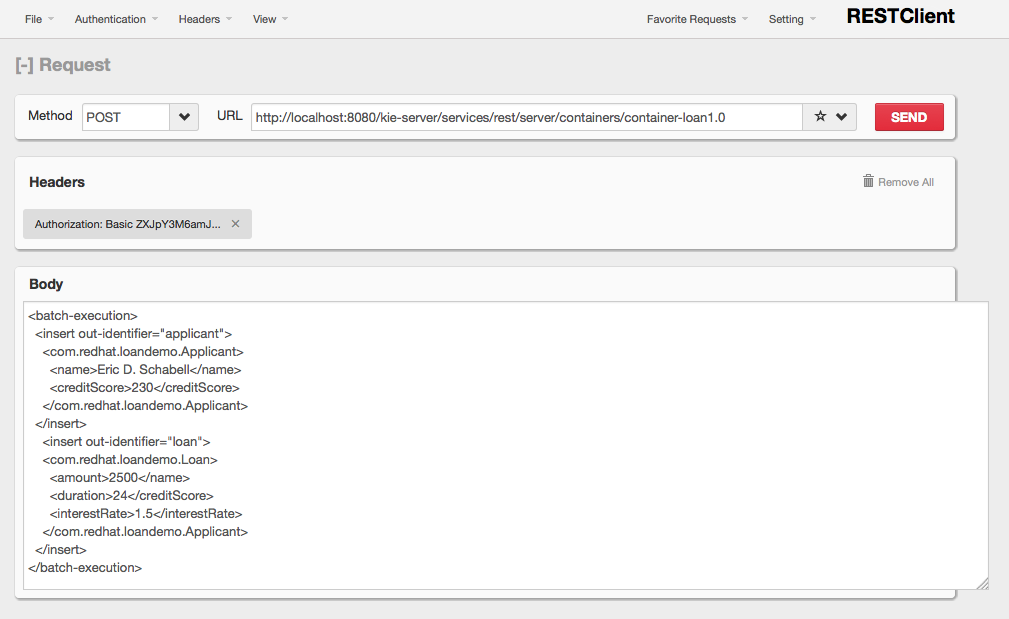
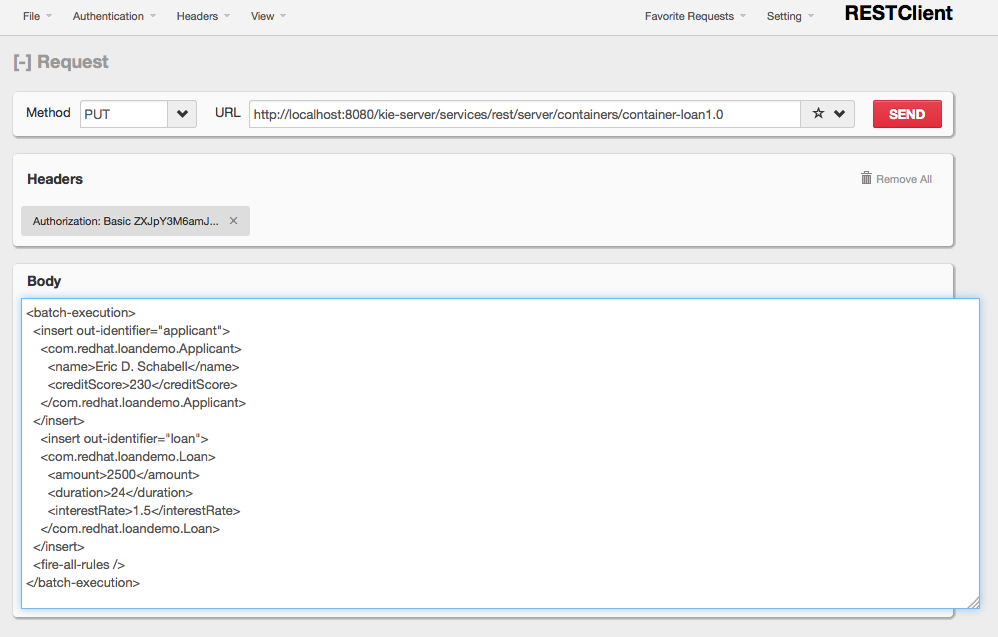
Added images to readme.

diff --git a/README.md b/README.md
@@ -118,3 +118,5 @@ See the tagged releases for the following versions of the product:
 
 ![Restapi Loan Request](https://raw.githubusercontent.com/eschabell/brms-realtime-decision-server-demo/master/docs/demo-images/restapi-loan-request.png)
 
+![Restapi Loan Request Error](https://raw.githubusercontent.com/eschabell/brms-realtime-decision-server-demo/master/docs/demo-images/restapi-loan-request-error.png)
+
